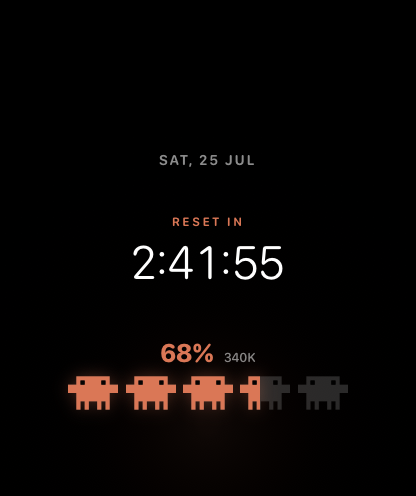
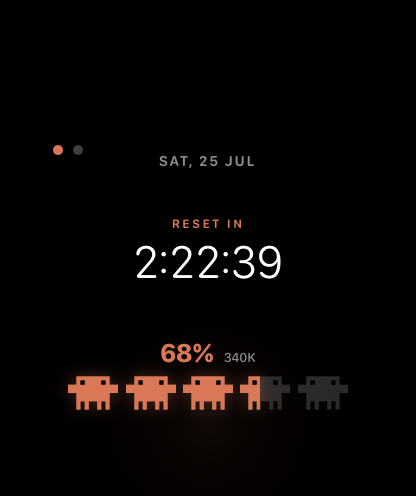
Improve watch face switching
Replace conflicting full-screen gestures with a dedicated face selector and keep the digital clock layout stable when showing the reset countdown.

Copilot-Session: a1662503-018e-45a5-9f2f-94f463106b09

diff --git a/ClaudeCreditsWatch/ContentView.swift b/ClaudeCreditsWatch/ContentView.swift
@@ -81,20 +81,6 @@ struct ContentView: View {
         .onChange(of: remainingPercent) { _, newValue in
             remainingPercent = MockCreditMath.clampedPercent(newValue)
         }
-        .onTapGesture {
-            toggleFace()
-        }
-        .simultaneousGesture(
-            DragGesture(minimumDistance: 24)
-                .onEnded { value in
-                    let horizontalDistance = abs(value.translation.width)
-                    let verticalDistance = abs(value.translation.height)
-                    if horizontalDistance > 35, horizontalDistance > verticalDistance {
-                        toggleFace()
-                    }
-                },
-            including: .all
-        )
         .onLongPressGesture(minimumDuration: 0.55) {
             isShowingControls = true
         }
@@ -106,6 +92,25 @@ struct ContentView: View {
                 resetAt: $mockResetAt,
                 selectedFaceRawValue: $selectedFaceRawValue
             )
+        }
+        .overlay(alignment: .topLeading) {
+            Button(action: toggleFace) {
+                HStack(spacing: 5) {
+                    ForEach(FaceStyle.allCases) { style in
+                        Circle()
+                            .fill(
+                                style == selectedFace
+                                    ? Color.creditOrange
+                                    : Color.white.opacity(0.24)
+                            )
+                            .frame(width: 5, height: 5)
+                    }
+                }
+                .frame(width: 64, height: 44)
+                .contentShape(Rectangle())
+            }
+            .buttonStyle(.plain)
+            .accessibilityLabel("Switch watch design")
         }
         .accessibilityElement(children: .contain)
         .accessibilityLabel("Claude credits prototype")

diff --git a/ClaudeCreditsWatch/FiveAliensFaceView.swift b/ClaudeCreditsWatch/FiveAliensFaceView.swift
@@ -24,6 +24,7 @@ struct FiveAliensFaceView: View {
                         now: context.date,
                         height: geometry.size.height
                     )
+                    .frame(height: geometry.size.height * 0.235)
                     .contentShape(Rectangle())
                     .onTapGesture {
                         withAnimation(.easeInOut(duration: 0.2)) {
@@ -71,6 +72,9 @@ struct FiveAliensFaceView: View {
                 endRadius: 180
             )
         )
+        .onDisappear {
+            showsResetCountdown = false
+        }
     }
 
     @ViewBuilder

diff --git a/ClaudeCreditsWatch/MockControlsView.swift b/ClaudeCreditsWatch/MockControlsView.swift
@@ -66,8 +66,7 @@ struct MockControlsView: View {
 
                 Section("Shortcuts") {
                     Text("Crown adjusts credits")
-                    Text("Tap outside the time to switch face")
-                    Text("Swipe also switches face")
+                    Text("Tap the top-left dots to switch face")
                     Text("Tap digital time for countdown")
                     Text("Long-press opens this panel")
                 }

diff --git a/README.md b/README.md
@@ -40,8 +40,7 @@ xcodegen generate
 ## Prototype controls
 
 - Rotate the Digital Crown to change the mocked remaining percentage.
-- Tap anywhere outside the digital time to switch faces.
-- Swipe horizontally to switch faces as an alternative.
+- Tap the two small dots in the upper-left corner to switch faces.
 - Tap the digital time to switch between the clock and reset countdown.
 - Long-press anywhere to open controls with a slider and preset values.
 
